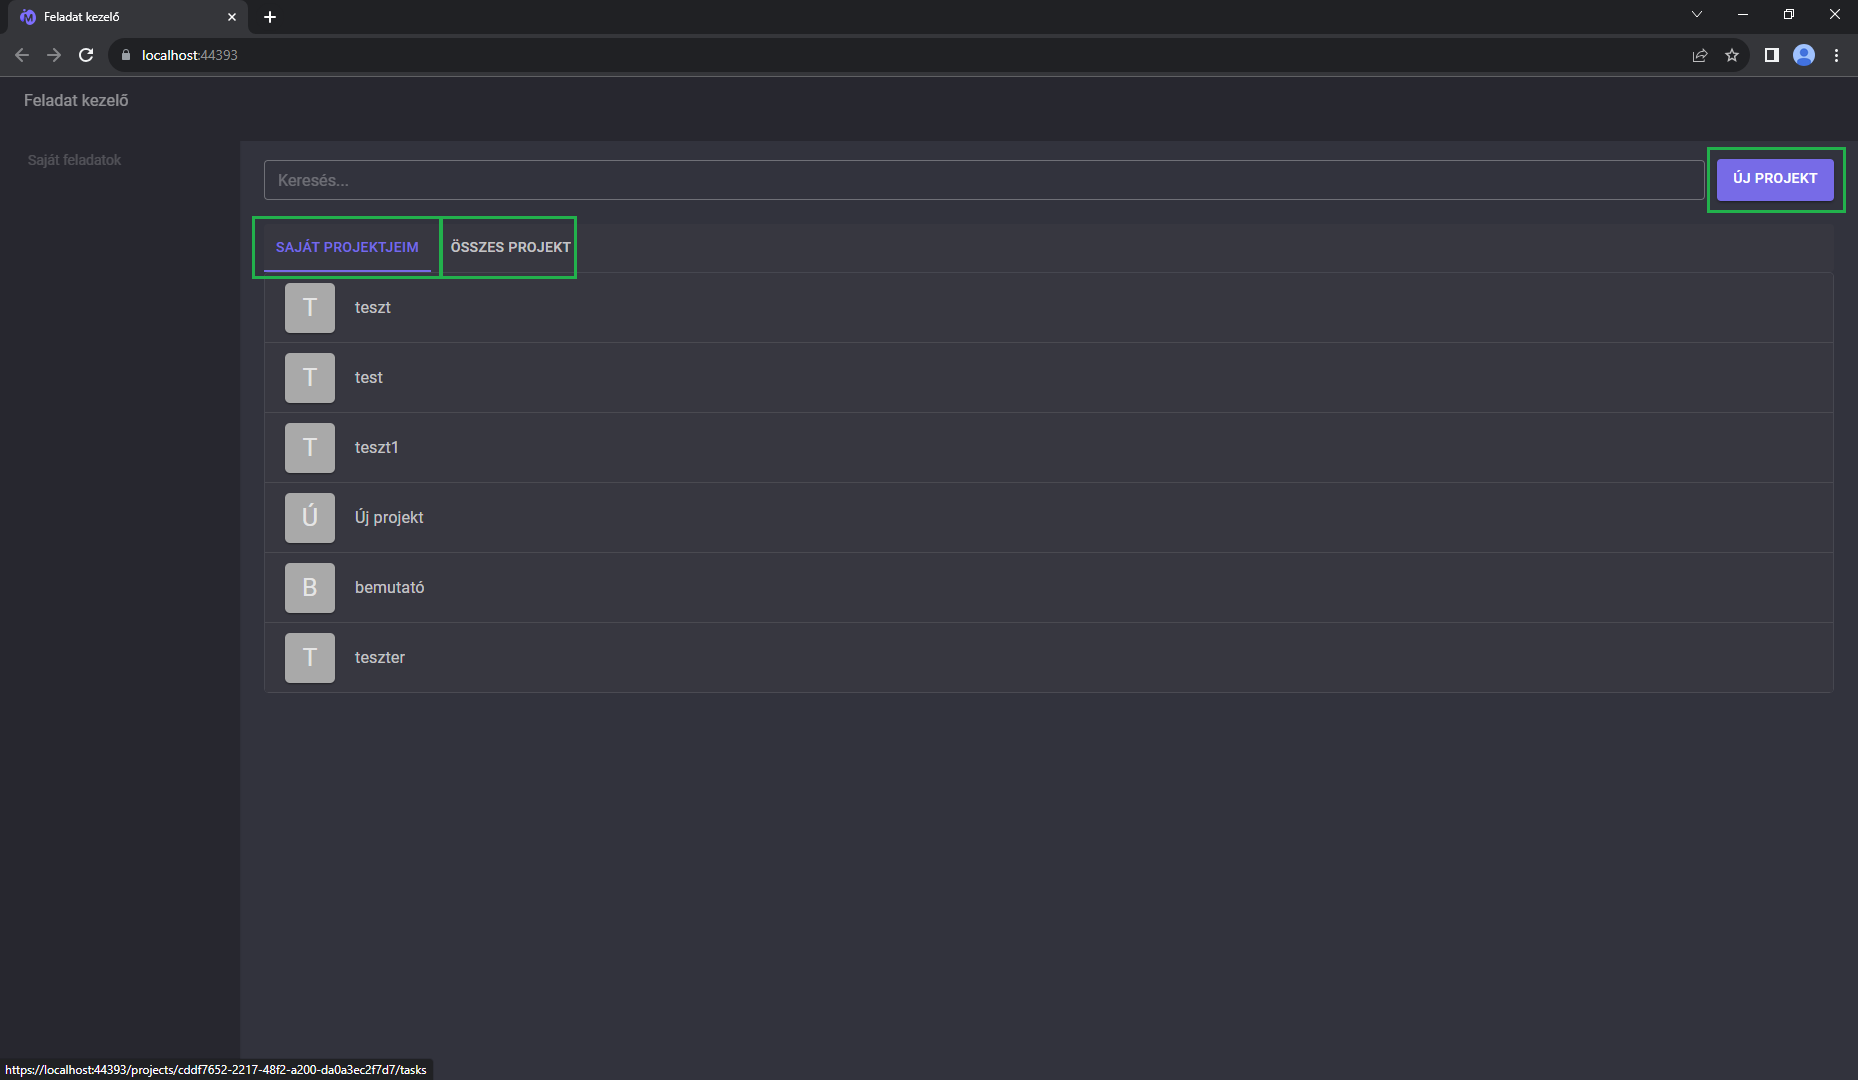
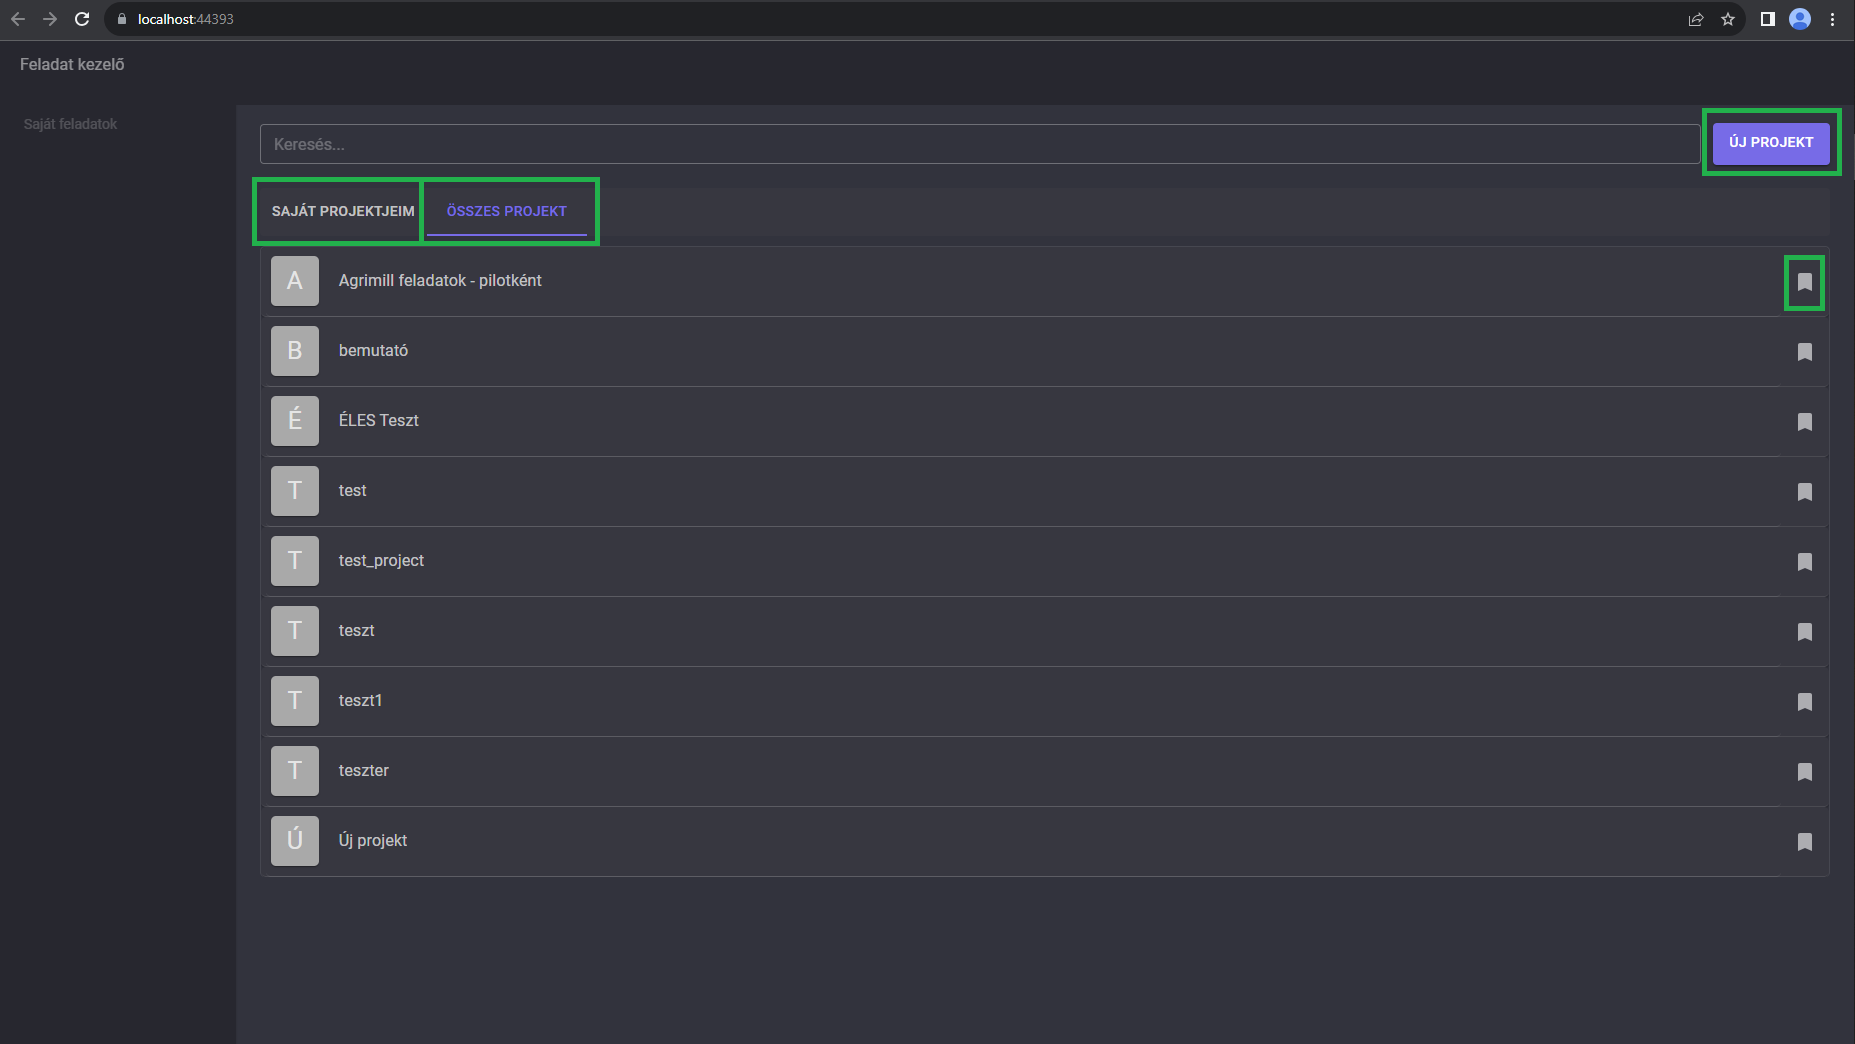
#71565 - Project felvétele a saját projectekhez

diff --git a/TaskManager.Srv/wwwroot/StyleSheets/project_page.css b/TaskManager.Srv/wwwroot/StyleSheets/project_page.css
@@ -5,6 +5,11 @@
     overflow: hidden;
 }
 
+.user-click {
+    position: relative;
+    z-index: 3
+}
+
 .card {
     height: 70px;
     border-radius: inherit;
@@ -13,7 +18,8 @@
     align-items: center;
     padding-left: 5px;
     width: 100%;
-    z-index: 5;
+    position: relative;
+    z-index: 2;
 }
 
 .paper {
@@ -78,10 +84,8 @@
 
 .project-name-text {
     width: 100%;
-    z-index: 1;
     border: none;
 }
 
 .more-button {
-    z-index: 6;
 }

diff --git a/TaskManager.Srv/Pages/Home/ProjectList.razor.cs b/TaskManager.Srv/Pages/Home/ProjectList.razor.cs
@@ -1,5 +1,8 @@
 using Microsoft.AspNetCore.Components;
 using Microsoft.AspNetCore.Components.Authorization;
+using Microsoft.AspNetCore.Components.Forms;
+
+using MudBlazor;
 
 using TaskManager.Srv.Model.DataModel;
 using TaskManager.Srv.Model.ViewModel;
@@ -14,11 +17,15 @@ public partial class ProjectList
     [Parameter] public bool MineOnly { get; set; } = false;
     [Parameter] public string SearchTerm { get; set; } = "";
 
+    [CascadingParameter(Name = "projId")] private long projectId { get; set; }
+
     [Inject] private IProjectDisplayService _projectDisplayService { get; set; } = null!;
     [Inject] private IProjectAdminService _projectAdminService { get; set; } = null!;
 
+    private MudIconButton? mudIconButton;
     private string _userName = "";
     private List<ProjectViewModel> _projects = new();
+    private EventCallback<EditContext> editContext = new();
 
     protected override async Task OnInitializedAsync()
     {
@@ -32,7 +39,7 @@ public partial class ProjectList
         }
     }
 
-    public async Task AssignUserToProject(long projectId)
+    public async Task AssignUserToProject()
     {
         await _projectAdminService.AssignProjectUserAsync(projectId, _userName);
     }

diff --git a/TaskManager.Srv/docs/felhasznaloi_segedlet.md b/TaskManager.Srv/docs/felhasznaloi_segedlet.md
@@ -5,10 +5,11 @@ verzió: 1.0
 A TaskManager egy feladatkezelő program, ami egyszerűbbé teszi az aktuális feladatok **átláthatóságát** és **dokumentálását**.
 
 ### Kezdőoldal
-![image](pics/mainpage.png)
+![image](pics/mainPage.png)
 
-- **Saját projectjeim:** itt azok a projectek találhatók meg, amik általunk lettek létrehozva.
+- **Saját projectjeim:** itt azok a projectek találhatók meg, amik általunk lettek létrehozva vagy felvettük őket sajátnak.
 - **Összes project:** itt az összes project megtalálható, ami létre lett hozva a TaskManagerben.
+- **Felvétel a saját projectekhez:** Az "összes project" menüponton a könyvjelző ikonra kattintva a projectet hozzá adhatjuk a saját projectek listához. Ilyenkor be kerül a saját projectek menüpontba a project.
 - **Új project:** projectet, a jobb felső sarokban lévő "Új project" gomb megnomásával lehet létrehozni. A felugró ablakban csak a project nevét kell megadni. (FONTOS: nem szerepelhet két ugyanolyan nevű project az alkalmazásban. Erre egy figyelmeztető üzenet is felhívja a figyelmed!).
 
 ### Projectoldal
